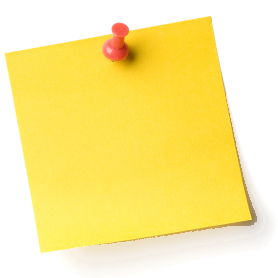
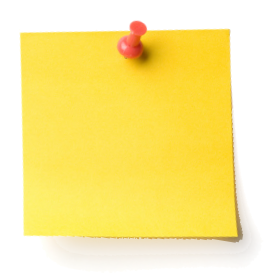
Added date formating and displaying in header. Sticky note rotated for better text drawing. Added nicer font from google.

Changed region(s): [[0.0, 0.0576, 0.9496, 0.9209]]

diff --git a/week04/stickynotes.js b/week04/stickynotes.js
@@ -1,3 +1,11 @@
+HTMLDocument.prototype.setMoveCursor = function() {
+	this.body.style.cursor = 'pointer';
+};
+
+HTMLDocument.prototype.setDefaultCursor = function() {
+	this.body.style.cursor = 'default';
+};
+
 function Board() {
 }
 
@@ -27,8 +35,8 @@ Board.prototype.init = function(context) {
 };
 
 Board.prototype.getNoteBelowCursor = function(event) {
-	var posX = event.clientX;
-	var posY = event.clientY;
+	var posX = event.offsetX;
+	var posY = event.offsetY;
 	for(key in this._notes) {
 		var note = this._notes[key];
 		var notePinPosX = note._positionX;
@@ -51,19 +59,39 @@ Note.prototype._pinPosY = 51;
 Note.prototype._text = null;
 Note.prototype._positionX = 0;
 Note.prototype._positionY = 0;
+Note.prototype._date = "";
 	
 Note.prototype.draw = function(context) {
 	var img = document.getElementById("stickyNoteImg");		
-	context.drawImage(img, this._positionX - this._pinPosX, this._positionY - this._pinPosY, this._width, this._height);
+	context.save();
+	context.drawImage(img, this._positionX - this._pinPosX, this._positionY - this._pinPosY, this._width, this._height);	
+	context.translate(this._positionX - this._pinPosX + 32, this._positionY - this._pinPosY + 75);	
+	context.font = '9pt PT Sans';
+	context.fillText(date.format(this._date), 0,0)//this._positionX - this._pinPosX + 14, this._positionY - this._pinPosY + 63);	
+	context.restore();
 };
 
 Note.prototype.clear = function(context) {
+	context.save();
 	context.fillStyle = 'rgb(255,255,255)';
 	context.fillRect(this._positionX - this._pinPosX, this._positionY - this._pinPosY, this._width, this._height);
+	context.restore();
 };
 	
 Note.prototype.setText = function(text) {
 	this._text = text;
+};
+
+Note.prototype.getText = function() {
+	return this._text;
+};
+
+Note.prototype.getDate = function() {
+	return this._date;
+};
+
+Note.prototype.setDate = function(date) {
+	this._date = date;
 };
 	
 Note.prototype.setPosition = function(posX, posY) {
@@ -77,28 +105,42 @@ jQuery(document).ready(function() {
 	var board = new Board;
 	board.init(canvas.getContext('2d'))
 	jQuery('#board').click(function() {
-		jQuery(this).off('mousemove');		
+		jQuery(this).off('mousemove');
 		var activeNote = board.getNoteBelowCursor(event);
+		if (activeNote)
+		{
+			document.setMoveCursor();
+		}
+		else
+		{
+			document.setDefaultCursor();
+		}
 		var moving = jQuery(this).attr('move');
 		if (!activeNote && !moving)
 		{
 			var n = new Note;
-			n.setPosition(event.clientX, event.clientY);
+			n.setDate(new Date());
+			n.setPosition(event.offsetX, event.offsetY);
 			board.addNote(n);
 		} else {
 			if (!moving)
 			{
 				jQuery(this).attr('move','on');
-				jQuery(this).on('mousemove', function() {					
+				jQuery(this).on('mousemove', function() {															
 					board.removeNote(activeNote);
 					var n = new Note;
+					n.setDate(activeNote.getDate());
+					n.setText(activeNote.getText());
 					activeNote = n;
-					n.setPosition(event.clientX, event.clientY);
+					n.setPosition(event.offsetX, event.offsetY);
 					board.addNote(n);
 				});
 			}
 			else
+			{
 				jQuery('#board').removeAttr('move');
+				document.setDefaultCursor();
+			}
 		}
 	});
 });

diff --git a/week04/dates.js b/week04/dates.js
@@ -1,0 +1,38 @@
+//http://www.elated.com/articles/working-with-dates/
+
+var month_names = new Array ( );
+month_names[month_names.length] = "January";
+month_names[month_names.length] = "February";
+month_names[month_names.length] = "March";
+month_names[month_names.length] = "April";
+month_names[month_names.length] = "May";
+month_names[month_names.length] = "June";
+month_names[month_names.length] = "July";
+month_names[month_names.length] = "August";
+month_names[month_names.length] = "September";
+month_names[month_names.length] = "October";
+month_names[month_names.length] = "November";
+month_names[month_names.length] = "December";
+
+var day_names = new Array ( );
+day_names[day_names.length] = "Sunday";
+day_names[day_names.length] = "Monday";
+day_names[day_names.length] = "Tuesday";
+day_names[day_names.length] = "Wednesday";
+day_names[day_names.length] = "Thursday";
+day_names[day_names.length] = "Friday";
+day_names[day_names.length] = "Saturday";
+
+var date = {
+	format: function(dateToFormat) {
+		return day_names[dateToFormat.getDay()]+  ", " +  month_names[dateToFormat.getMonth()] + " " + 
+			  date.addLeadingZero(dateToFormat.getDate())  + " " + dateToFormat.getFullYear() + " " + 
+			  date.addLeadingZero(dateToFormat.getHours()) + ":" + date.addLeadingZero(dateToFormat.getMinutes()) + ":" + date.addLeadingZero(dateToFormat.getSeconds());
+	},
+	
+	addLeadingZero: function(part) {
+		if (part <= 9)
+			return '0'+part;
+		return part;
+	}
+};

diff --git a/week04/stickynotes.html b/week04/stickynotes.html
@@ -4,11 +4,17 @@
 <meta charset="utf-8" />
 <title>Sticky Notes in HTML5</title>
 <script type="text/javascript" src="https://ajax.googleapis.com/ajax/libs/jquery/1.7.1/jquery.min.js"></script>
+<link href='http://fonts.googleapis.com/css?family=PT+Sans' rel='stylesheet' type='text/css'>
+<style>
+body { font-family: 'PT Sans', sans-serif; }
+</style>
 </head>
 <body>
+<header><h1>Sticky Notes app in HTML5</h1></header>
 <img id="stickyNoteImg" src="stickynote_trans.png" style="display: none; cursor: pointer" alt="http://www.flickr.com/photos/winning-information/2325865367/sizes/m/in/faves-nathanwells/" />
 <canvas id="board" width="800" height="600">
 </canvas>
+<script type="text/javascript" src="dates.js"></script>
 <script type="text/javascript" src="stickynotes.js"></script>
 </body>
 </html>
